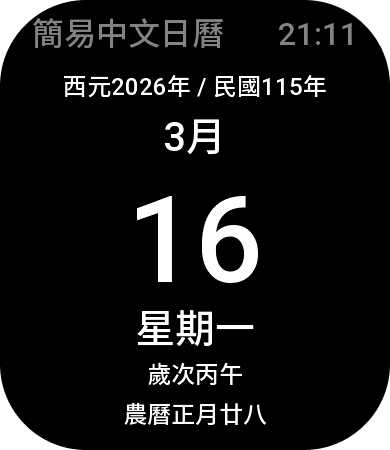
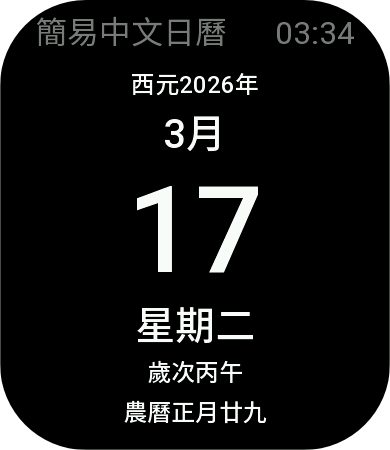
Update appid, screenshot, code, README

diff --git a/page/gts/home/index.page_TW.js b/page/gts/home/index.page_TW.js
@@ -1,0 +1,89 @@
+import { createWidget, widget, prop } from '@zos/ui'
+import { log } from '@zos/utils'
+import { Time } from '@zos/sensor'
+import { getText } from '@zos/i18n'
+import { getLanguage } from '@zos/settings'
+import { STYLE_LINE1, STYLE_LINE2, STYLE_LINE3, STYLE_LINE3_ERR, STYLE_LINE4, STYLE_LINE5, STYLE_LINE6, STYLE_SPACER } from './index.style'
+
+const logger = log.getLogger('SimpleCalendar')
+const scrollContainer = createWidget(widget.VIEW_CONTAINER, {
+  ...CONTAINER_STYLE
+})
+
+Page({
+  state: {
+    line1: null, line2: null, line3: null, line4: null, line5: null, line6: null, spacer: null,
+    timeSensor: null,
+  },
+
+  build() {
+    const lang = getLanguage()
+    if ( lang < 2 ) {
+      this.state.timeSensor = new Time()
+
+      this.state.line1 = scrollContainer.createWidget(widget.TEXT, { ...STYLE_LINE1 })
+      this.state.line2 = scrollContainer.createWidget(widget.TEXT, { ...STYLE_LINE2 })
+      this.state.line3 = scrollContainer.createWidget(widget.TEXT, { ...STYLE_LINE3 })
+      this.state.line4 = scrollContainer.createWidget(widget.TEXT, { ...STYLE_LINE4 })
+      this.state.line5 = scrollContainer.createWidget(widget.TEXT, { ...STYLE_LINE5 })
+      this.state.line6 = scrollContainer.createWidget(widget.TEXT, { ...STYLE_LINE6 })
+      this.state.spacer = scrollContainer.createWidget(widget.TEXT, { ...STYLE_SPACER })
+
+      this.updateCalendar()
+
+      // 每分鐘自動更新
+      this.state.timeSensor.onPerMinute(() => {
+        this.updateCalendar()
+      })
+    } else {
+      // When switches language to Not Chinese
+      this.state.line3 = scrollContainer.createWidget(widget.TEXT, { ...STYLE_LINE3_ERR })
+      this.state.line3.setProperty(prop.MORE, { text: getText('lang_wrong') })
+    }
+    
+  },
+
+  // 輔助函式：處理已經是中文的農曆資訊
+  formatLunar(m, d, f) {
+    logger.info(`Formatting Lunar: ${m} and ${d} and ${f}`)
+    
+    // 處理月份：將 "一月" 轉為 "正月"，"十二月" 轉為 "臘月"
+    let mStr = m.toString()
+    if (mStr === '一月') {
+      mStr = '正月'
+    } else if (mStr === '腊月') {
+      mStr = getText('lunar_12')
+    }
+    if (f === 'INVALID') {
+      f = ''
+    } else {
+      f = ` / ${f}`
+    }
+
+    return `${mStr}${d}${f}`
+  },
+
+  updateCalendar() {
+    logger.info('Updating Calendar...')
+    const t = this.state.timeSensor
+    const year = t.getFullYear()
+    const month = t.getMonth()
+    const date = t.getDate()
+    const day = t.getDay()
+    
+    const rocYear = year - 1911
+    const weekDays = ['日', '一', '二', '三', '四', '五', '六']
+    const dayStr = `${weekDays[day % 7]}`
+
+    // 取得農曆字串
+    const lunarStr = this.formatLunar(t.getLunarMonth(), t.getLunarDay(), t.getShowFestival())
+    const lunarYear = t.getLunarYear().replace('年','')
+
+    this.state.line1.setProperty(prop.MORE, { text: `${getText('year_ad')}${year}年 / 民國${rocYear}年` })
+    this.state.line2.setProperty(prop.MORE, { text: `${month}月` })
+    this.state.line3.setProperty(prop.MORE, { text: `${date}` })
+    this.state.line4.setProperty(prop.MORE, { text: `${getText('week_day')}${dayStr}` })
+    this.state.line5.setProperty(prop.MORE, { text: `${getText('lunaryear_prefix')}${lunarYear}` })
+    this.state.line6.setProperty(prop.MORE, { text: `${getText('lunar_prefix')}${lunarStr}` })
+  }
+})

diff --git a/page/gts/home/index.page_GLOBAL.js b/page/gts/home/index.page_GLOBAL.js
@@ -1,0 +1,88 @@
+import { createWidget, widget, prop } from '@zos/ui'
+import { log } from '@zos/utils'
+import { Time } from '@zos/sensor'
+import { getText } from '@zos/i18n'
+import { getLanguage } from '@zos/settings'
+import { STYLE_LINE1, STYLE_LINE2, STYLE_LINE3, STYLE_LINE3_ERR, STYLE_LINE4, STYLE_LINE5, STYLE_LINE6, STYLE_SPACER } from './index.style'
+
+const logger = log.getLogger('SimpleCalendar')
+const scrollContainer = createWidget(widget.VIEW_CONTAINER, {
+  ...CONTAINER_STYLE
+})
+
+Page({
+  state: {
+    line1: null, line2: null, line3: null, line4: null, line5: null, line6: null, spacer: null,
+    timeSensor: null,
+  },
+
+  build() {
+    const lang = getLanguage()
+    if ( lang < 2 ) {
+      this.state.timeSensor = new Time()
+
+      this.state.line1 = scrollContainer.createWidget(widget.TEXT, { ...STYLE_LINE1 })
+      this.state.line2 = scrollContainer.createWidget(widget.TEXT, { ...STYLE_LINE2 })
+      this.state.line3 = scrollContainer.createWidget(widget.TEXT, { ...STYLE_LINE3 })
+      this.state.line4 = scrollContainer.createWidget(widget.TEXT, { ...STYLE_LINE4 })
+      this.state.line5 = scrollContainer.createWidget(widget.TEXT, { ...STYLE_LINE5 })
+      this.state.line6 = scrollContainer.createWidget(widget.TEXT, { ...STYLE_LINE6 })
+      this.state.spacer = scrollContainer.createWidget(widget.TEXT, { ...STYLE_SPACER })
+
+      this.updateCalendar()
+
+      // 每分鐘自動更新
+      this.state.timeSensor.onPerMinute(() => {
+        this.updateCalendar()
+      })
+    } else {
+      // When switches language to Not Chinese
+      this.state.line3 = scrollContainer.createWidget(widget.TEXT, { ...STYLE_LINE3_ERR })
+      this.state.line3.setProperty(prop.MORE, { text: getText('lang_wrong') })
+    }
+    
+  },
+
+  // 輔助函式：處理已經是中文的農曆資訊
+  formatLunar(m, d, f) {
+    logger.info(`Formatting Lunar: ${m} and ${d} and ${f}`)
+    
+    // 處理月份：將 "一月" 轉為 "正月"，"十二月" 轉為 "臘月"
+    let mStr = m.toString()
+    if (mStr === '一月') {
+      mStr = '正月'
+    } else if (mStr === '腊月') {
+      mStr = getText('lunar_12')
+    }
+    if (f === 'INVALID') {
+      f = ''
+    } else {
+      f = ` / ${f}`
+    }
+
+    return `${mStr}${d}${f}`
+  },
+
+  updateCalendar() {
+    logger.info('Updating Calendar...')
+    const t = this.state.timeSensor
+    const year = t.getFullYear()
+    const month = t.getMonth()
+    const date = t.getDate()
+    const day = t.getDay()
+    
+    const weekDays = ['日', '一', '二', '三', '四', '五', '六']
+    const dayStr = `${weekDays[day % 7]}`
+
+    // 取得農曆字串
+    const lunarStr = this.formatLunar(t.getLunarMonth(), t.getLunarDay(), t.getShowFestival())
+    const lunarYear = t.getLunarYear().replace('年','')
+
+    this.state.line1.setProperty(prop.MORE, { text: `${getText('year_ad')}${year}年` })
+    this.state.line2.setProperty(prop.MORE, { text: `${month}月` })
+    this.state.line3.setProperty(prop.MORE, { text: `${date}` })
+    this.state.line4.setProperty(prop.MORE, { text: `${getText('week_day')}${dayStr}` })
+    this.state.line5.setProperty(prop.MORE, { text: `${getText('lunaryear_prefix')}${lunarYear}` })
+    this.state.line6.setProperty(prop.MORE, { text: `${getText('lunar_prefix')}${lunarStr}` })
+  }
+})

diff --git a/packet_model_helper.py b/packet_model_helper.py
@@ -1,0 +1,72 @@
+import zipfile
+import json
+import os
+import re
+
+def clean_device_name(name):
+    """
+    移除特定的尾綴：-w, -w1, -w2, -cn
+    但保留像 active2-2024 這種非定義中的尾綴
+    """
+    # 使用正則表達式匹配結尾為 -w, -w1, -w2, 或 -cn 的字串
+    # $ 表示字串結尾
+    return re.sub(r'-(w|w1|w2|cn)$', '', name)
+
+def extract_platform_names():
+    output_file = "device_compatibility_report.txt"
+    results = []
+
+    # 1. 獲取當前目錄下所有 .zpk 檔案
+    zpk_files = [f for f in os.listdir('.') if f.endswith('.zpk')]
+
+    if not zpk_files:
+        print("目錄下找不到任何 .zpk 檔案。")
+        return
+
+    print(f"開始處理 {len(zpk_files)} 個檔案並篩選型號...")
+
+    for zpk_name in zpk_files:
+        try:
+            with zipfile.ZipFile(zpk_name, 'r') as zpk:
+                if 'device.zip' in zpk.namelist():
+                    with zpk.open('device.zip') as device_zip_data:
+                        with zipfile.ZipFile(device_zip_data) as dev_zip:
+                            if 'app.json' in dev_zip.namelist():
+                                with dev_zip.open('app.json') as f:
+                                    content = json.load(f)
+                                    
+                                    # 提取原始名稱
+                                    platforms = content.get('platforms', [])
+                                    raw_names = [p.get('name') for p in platforms if 'name' in p]
+                                    
+                                    # --- 修正邏輯開始 ---
+                                    # 1. 清理名稱 2. 使用 set 去重 3. 轉回 list 排序
+                                    cleaned_names = sorted(list(set(clean_device_name(n) for n in raw_names)))
+                                    # --- 修正邏輯結束 ---
+                                    
+                                    results.append({
+                                        'filename': zpk_name,
+                                        'devices': cleaned_names
+                                    })
+                            else:
+                                results.append({'filename': zpk_name, 'devices': ['[Error: app.json missing]']})
+                else:
+                    results.append({'filename': zpk_name, 'devices': ['[Error: device.zip missing]']})
+
+        except Exception as e:
+            results.append({'filename': zpk_name, 'devices': [f'[Error: {str(e)}]']})
+
+    # 6. 輸出報告
+    with open(output_file, 'w', encoding='utf-8') as out:
+        out.write("ZPK 檔案與主要型號對照表 (已過濾延伸型號)\n")
+        out.write("=" * 60 + "\n\n")
+        
+        for item in results:
+            out.write(f"檔案名稱: {item['filename']}\n")
+            out.write(f"主要型號: {', '.join(item['devices'])}\n")
+            out.write("-" * 60 + "\n")
+
+    print(f"處理完成！結果已儲存至: {output_file}")
+
+if __name__ == "__main__":
+    extract_platform_names()

diff --git a/README.md b/README.md
@@ -3,15 +3,15 @@
 
 ## 應用截圖
 
-![screenShot01.png](/screenshots/screenShot01.png)
+<img src="screenshots/screenShot01.png" width=250>
 
-![screenShot02.png](/screenshots/screenShot02.png)
+<img src="screenshots/screenShot02.png" width=250>
 
-## 如何安裝？
+## 開發者模式的安裝方式
 
 1. 請先啟用Zepp APP的開發者模式
 2. 打開臨時檔案託管網站[https://litterbox.catbox.moe](https://litterbox.catbox.moe)
-3. 上傳Release頁面中符合裝置解析度的.zpk檔案到託管網站上
+3. 下載Release頁面的zip包，由下方對應清單中找到裝置適用的zpk包，上傳到臨時托管網站
 4. 打開QR碼生成網站[https://www.qrcode-monkey.](https://www.qrcode-monkey.com)
 5. 將託管網站生成的URL改成 `zpkd1://` 開頭，例如
     ```
@@ -22,3 +22,44 @@
 7. 掃描產生出來的QR碼，或是按"Download PNG"下載到相簿後，使用"掃一掃"畫面上的"相簿"按鈕選擇剛剛下載的QR碼
 8. 程式應該會開始安裝到手錶上，此時Zepp APP "開發者模式" 下 的 "小程序" 頁面可能會出現剛剛側載進來的的小程序
 9. 檢查手錶的應用清單，應用應該已經安裝入手錶中！
+
+## GitHub上傳版本差異
+
+1. `Global` 字頭 (同時於Zepp應用商店送審中)，年份只有西元(公元)紀年，適用所有華語區的設備
+2. `TW` 字頭，年分顯示包含西元以及民國紀年，更符合台灣的使用習慣
+
+## 裝置對應表
+
+(使用`packet_model_helper.py`自動產生)
+
+```
+檔案名稱: round_360-Apollo-360x360.zpk
+主要型號: activeedge
+------------------------------------------------------------
+檔案名稱: round_454-NXP-454x454.zpk
+主要型號: cheetah-round, trexultra
+------------------------------------------------------------
+檔案名稱: round_466-MHS-466x466.zpk
+主要型號: active2-round, active2-round-2024, active3premium, trex3pro44
+------------------------------------------------------------
+檔案名稱: round_466-NXP-466x466.zpk
+主要型號: gtr4
+------------------------------------------------------------
+檔案名稱: round_480-MHS-480x480.zpk
+主要型號: activemax, balance2, trex3, trex3pro48, trexultra2
+------------------------------------------------------------
+檔案名稱: round_480-NXP-480x480.zpk
+主要型號: balance
+------------------------------------------------------------
+檔案名稱: square_320-Apollo-320x380.zpk
+主要型號: bip5, bip5unity
+------------------------------------------------------------
+檔案名稱: square_390-Apollo-390x450.zpk
+主要型號: active
+------------------------------------------------------------
+檔案名稱: square_390-MHS-390x450.zpk
+主要型號: active-2-square, bip6
+------------------------------------------------------------
+檔案名稱: square_390-NXP-390x450.zpk
+主要型號: cheetah-square, gts4
+```
